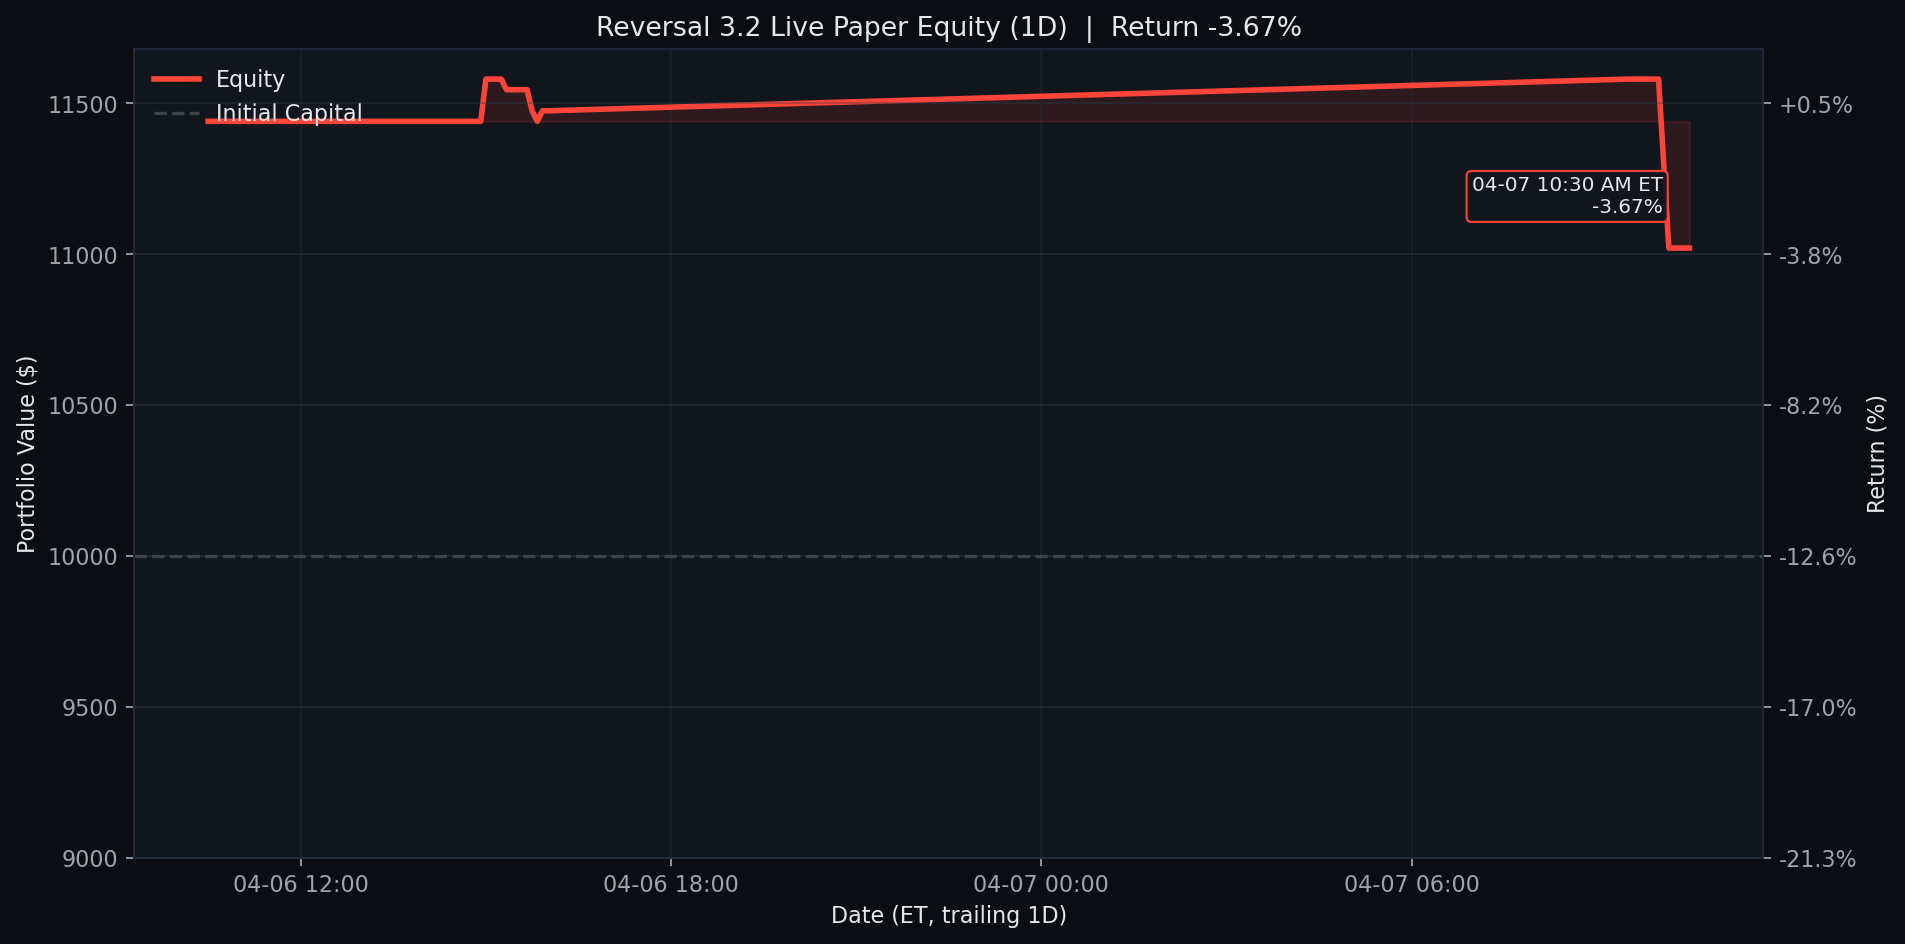
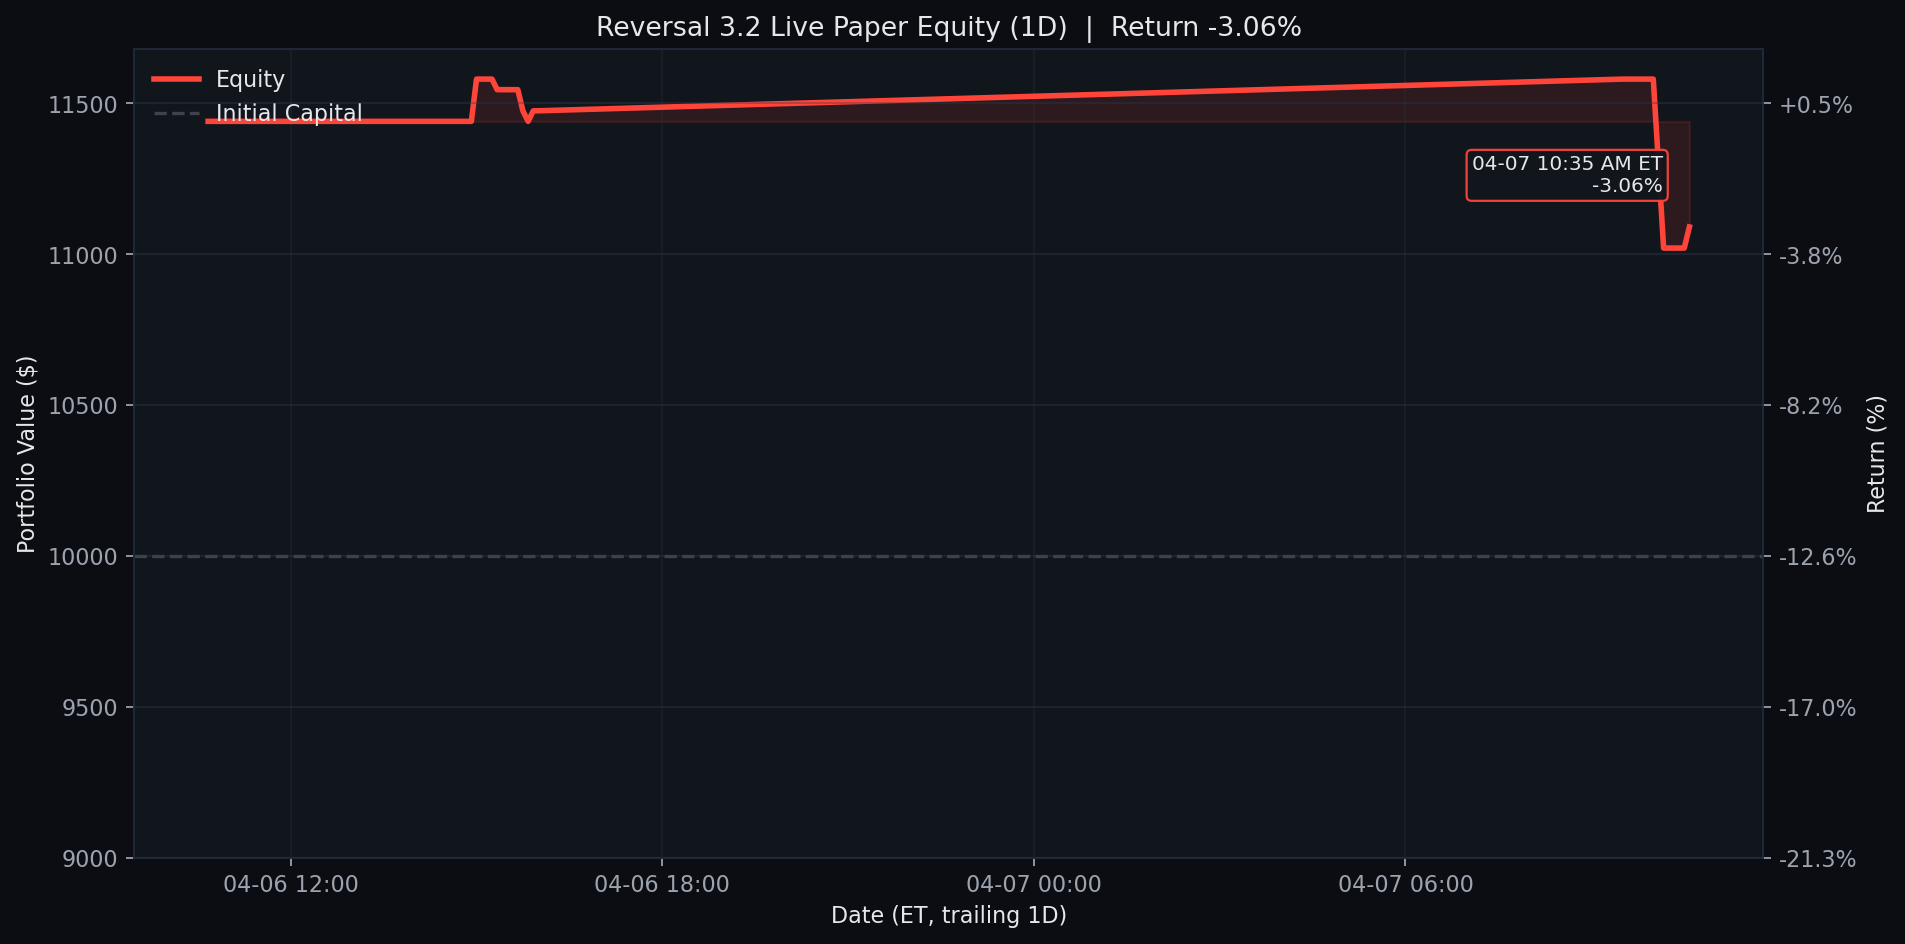
Update Reversal 3.2 live paper test 2026-04-07 10:35 ET

diff --git a/results/reversal_3_2_live/README.md b/results/reversal_3_2_live/README.md
@@ -1,6 +1,6 @@
 # Reversal 3.2 Live Paper Test
 
-Last updated (ET): `2026-04-07 10:30:05 EDT`
+Last updated (ET): `2026-04-07 10:35:05 EDT`
 Last processed slot: `manage_1030`
 
 ## Active Configuration
@@ -20,16 +20,16 @@ Last processed slot: `manage_1030`
 ## Portfolio Snapshot
 
 - Cash: `$6,260.00`
-- Equity: `$11,020.00`
+- Equity: `$11,090.00`
 - Realized PnL: `$1,440.00`
-- Unrealized PnL: `$-420.00`
+- Unrealized PnL: `$-350.00`
 - Open positions: `1`
 
 ## Open Positions
 
 ```text
 ticker    contract_symbol entry_trade_date  business_days_held  contracts  cash_spent  current_position_value  entry_option_price  current_option_price  entry_spot  current_spot  unrealized_pnl  unrealized_return_pct  success_rate  matched_signals  current_drop_pct  entry_iv_pct  current_iv_pct  rolling_sigma_20d_pct
-   HON HON260515C00230000       2026-04-06                   1          7      5180.0                  4760.0                 7.4                   6.8      227.61        225.72          -420.0                  -8.11         100.0               20               0.8         28.89           32.28                  20.57
+   HON HON260515C00230000       2026-04-06                   1          7      5180.0                  4830.0                 7.4                   6.9      227.61        225.75          -350.0                  -6.76         100.0               20               0.8         28.89           32.06                  20.57
 ```
 
 ## Today's Closed Trades (2026-04-07)
@@ -40,24 +40,25 @@ _None_
 
 ```text
 ticker  success_rate_%  matched_signals  current_drop_%  target_rebound_$  target_price  rolling_sigma_20d_%  call_candidate
-   HON          100.00               16            1.04              1.67        227.50                20.19            True
-  MRVL           96.15               26            1.96              1.50        108.87                70.84            True
-  REGN           95.65               23            1.33              7.09        760.00                25.24            True
-  COST           93.10               29            0.70              5.00       1016.41                13.04            True
-  UPRO           92.00               25            2.27              1.60        100.05                53.86            True
-  NVDA           91.67               24            1.54              1.91        176.82                33.70            True
-  MPWR           91.43               35            0.99              8.16       1176.53                51.99            True
+   HON          100.00               16            1.00              1.60        227.52                20.19            True
+  TSLA          100.00               15            3.30              8.14        349.33                42.33            True
+  REGN           96.77               31            1.01              5.40        760.73                25.24            True
+  MRVL           96.00               25            2.18              1.67        108.79                70.84            True
+  NVDA           95.65               23            1.59              1.98        176.79                33.70            True
+  UPRO           92.00               25            2.06              1.45        100.12                53.86            True
+  MPWR           91.18               34            1.18              9.77       1175.84                51.99            True
+  CDNS           91.11               45            0.63              1.22        278.87                25.26            True
   ABNB           90.91               33            1.14              1.01        126.38                36.80            True
-   MAR           88.89               27            0.99              2.35        336.99                25.97            True
-  VRTX           87.50               24            1.65              5.01        432.15                40.01            True
-  SNPS           87.18               39            1.00              2.79        395.88                35.70            True
-  DDOG           87.10               31            1.44              1.17        116.00                49.06            True
+  COST           90.32               31            0.61              4.35       1016.69                13.04            True
+   MAR           89.66               29            0.94              2.23        337.04                25.97            True
+  DDOG           88.89               27            1.91              1.56        115.83                49.06            True
 ```
 
 ## Recent Events
 
 ```text
                     timestamp_et         slot   event_type                          detail
+2026-04-07T10:35:05.885837-04:00  manage_1030 slot_skipped {"reason": "already_processed"}
 2026-04-07T10:30:05.884012-04:00  manage_1030 slot_skipped {"reason": "already_processed"}
 2026-04-07T10:25:05.889349-04:00  manage_1030 slot_skipped {"reason": "already_processed"}
 2026-04-07T10:10:05.890428-04:00  manage_1000 slot_skipped {"reason": "already_processed"}
@@ -67,7 +68,6 @@ ticker  success_rate_%  matched_signals  current_drop_%  target_rebound_$  targe
 2026-04-07T09:40:05.898554-04:00  manage_0930 slot_skipped {"reason": "already_processed"}
 2026-04-07T09:35:05.899056-04:00  manage_0930 slot_skipped {"reason": "already_processed"}
 2026-04-07T09:30:05.896974-04:00 data_refresh data_refresh                   {'saved': 99}
-2026-04-06T16:00:05.887844-04:00  manage_1600 slot_skipped {"reason": "already_processed"}
 ```
 
 ## Equity Curves
@@ -77,20 +77,20 @@ Each chart is generated from the same live equity series with no-lookahead marks
 <details>
 <summary><strong>1D</strong></summary>
 
-![Reversal 3.2 Live Equity 1D](../../assets/reversal_3_2_live_equity_1d.png?v=20260407103005)
+![Reversal 3.2 Live Equity 1D](../../assets/reversal_3_2_live_equity_1d.png?v=20260407103505)
 
 </details>
 
 <details open>
 <summary><strong>1W</strong></summary>
 
-![Reversal 3.2 Live Equity 1W](../../assets/reversal_3_2_live_equity.png?v=20260407103005)
+![Reversal 3.2 Live Equity 1W](../../assets/reversal_3_2_live_equity.png?v=20260407103505)
 
 </details>
 
 <details>
 <summary><strong>1M</strong></summary>
 
-![Reversal 3.2 Live Equity 1M](../../assets/reversal_3_2_live_equity_1m.png?v=20260407103005)
+![Reversal 3.2 Live Equity 1M](../../assets/reversal_3_2_live_equity_1m.png?v=20260407103505)
 
 </details>

diff --git a/README.md b/README.md
@@ -3,8 +3,8 @@
 <!-- reversal-3.2-live:start -->
 ## Reversal 3.2 Live Paper Test
 
-- Last updated (ET): `2026-04-07 10:30:05 EDT`
-- Equity: `$11,020.00` | Realized: `$1,440.00` | Unrealized: `$-420.00` | Open positions: `1`
+- Last updated (ET): `2026-04-07 10:35:05 EDT`
+- Equity: `$11,090.00` | Realized: `$1,440.00` | Unrealized: `$-350.00` | Open positions: `1`
 - Today closed trades: `0`
 - Current slot: `manage_1030`
 - Universe: `qqq_plus_leverage_etfs`
@@ -14,27 +14,27 @@
 
 ```text
 ticker    contract_symbol  contracts  cash_spent  current_position_value  current_option_price  unrealized_pnl  unrealized_return_pct  business_days_held
-   HON HON260515C00230000          7      5180.0                  4760.0                   6.8          -420.0                  -8.11                   1
+   HON HON260515C00230000          7      5180.0                  4830.0                   6.9          -350.0                  -6.76                   1
 ```
 
 <details>
 <summary><strong>1D</strong></summary>
 
-![Reversal 3.2 Live Equity 1D](assets/reversal_3_2_live_equity_1d.png?v=20260407103005)
+![Reversal 3.2 Live Equity 1D](assets/reversal_3_2_live_equity_1d.png?v=20260407103505)
 
 </details>
 
 <details open>
 <summary><strong>1W</strong></summary>
 
-![Reversal 3.2 Live Equity 1W](assets/reversal_3_2_live_equity.png?v=20260407103005)
+![Reversal 3.2 Live Equity 1W](assets/reversal_3_2_live_equity.png?v=20260407103505)
 
 </details>
 
 <details>
 <summary><strong>1M</strong></summary>
 
-![Reversal 3.2 Live Equity 1M](assets/reversal_3_2_live_equity_1m.png?v=20260407103005)
+![Reversal 3.2 Live Equity 1M](assets/reversal_3_2_live_equity_1m.png?v=20260407103505)
 
 </details>
 
